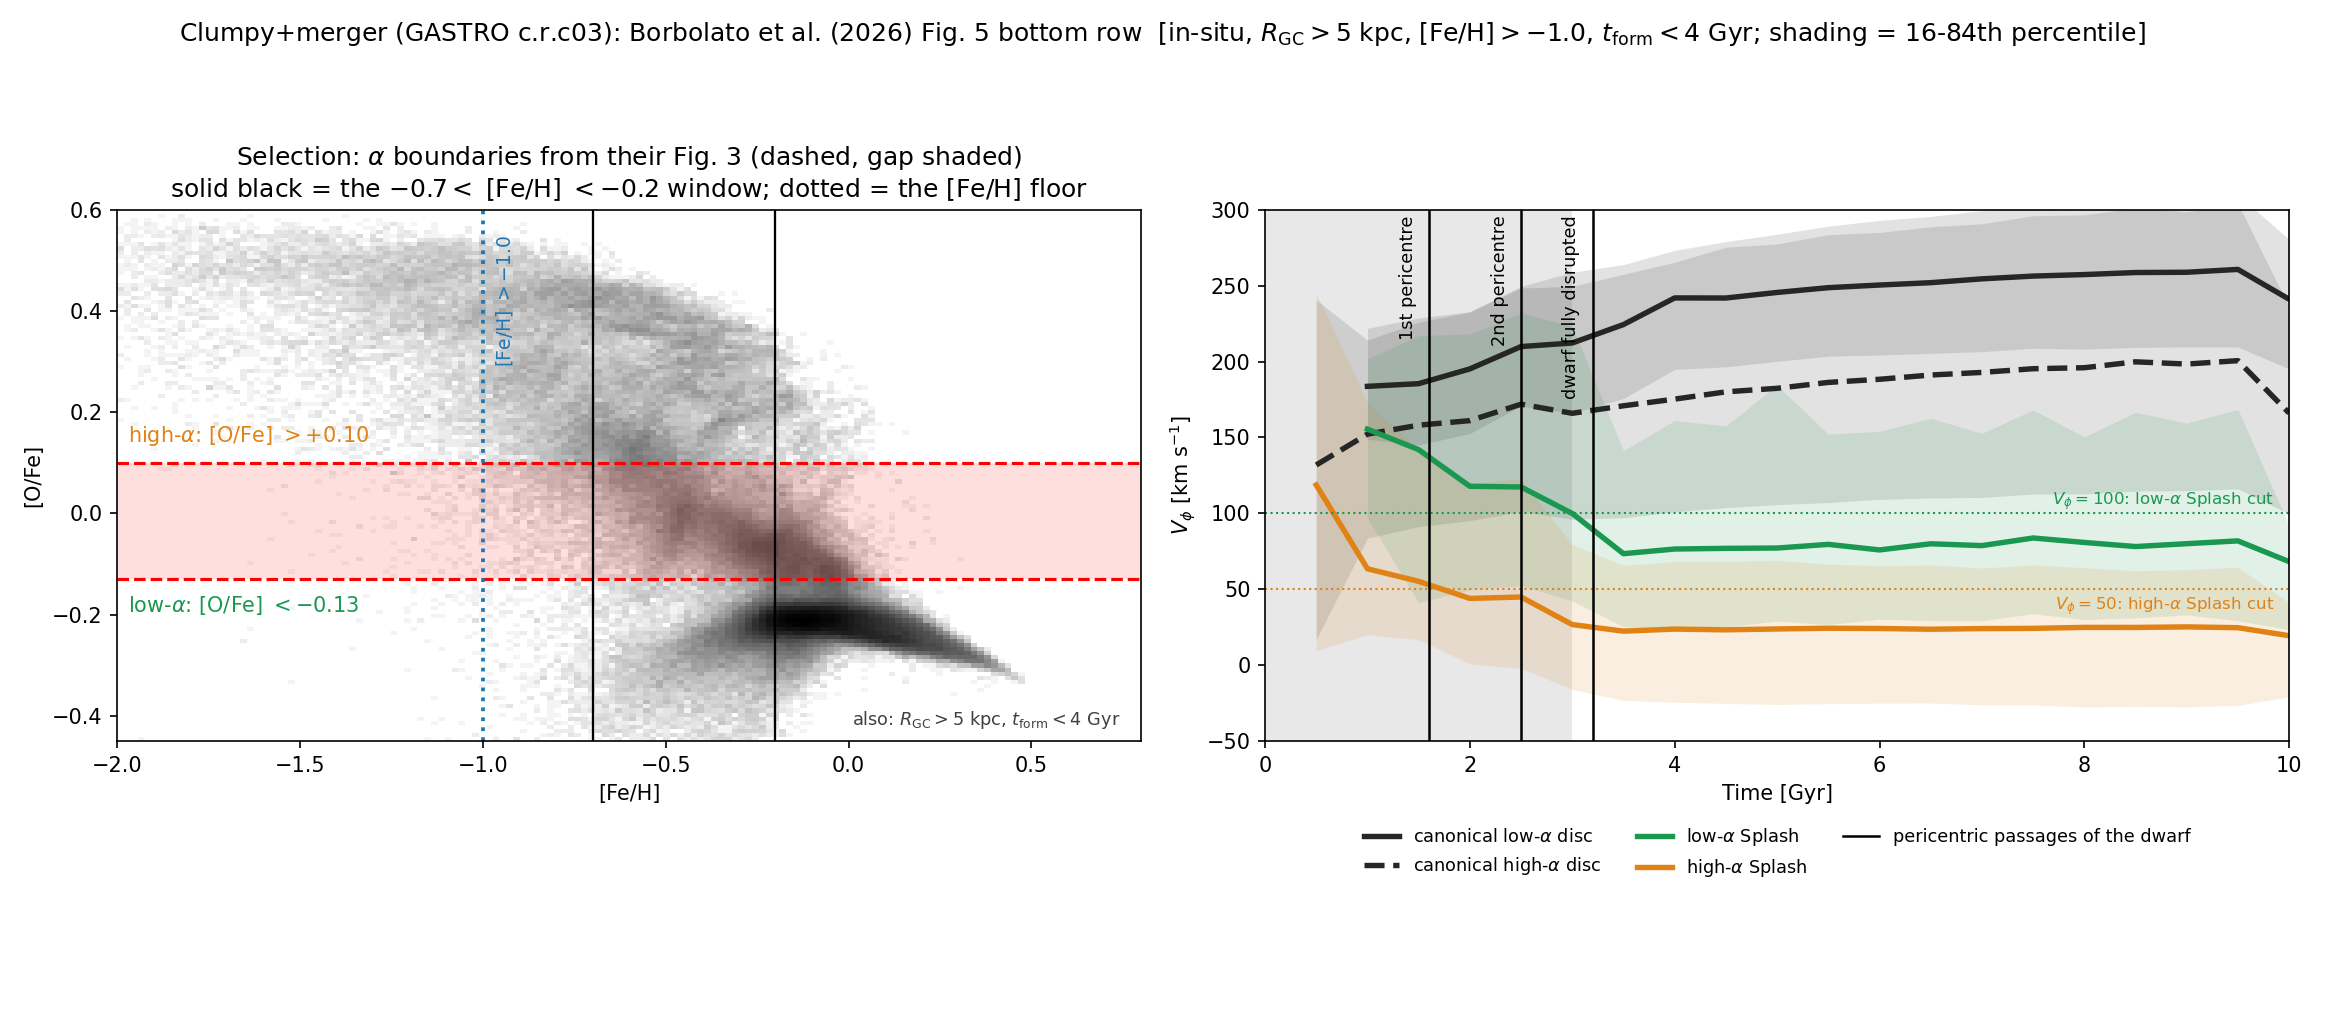
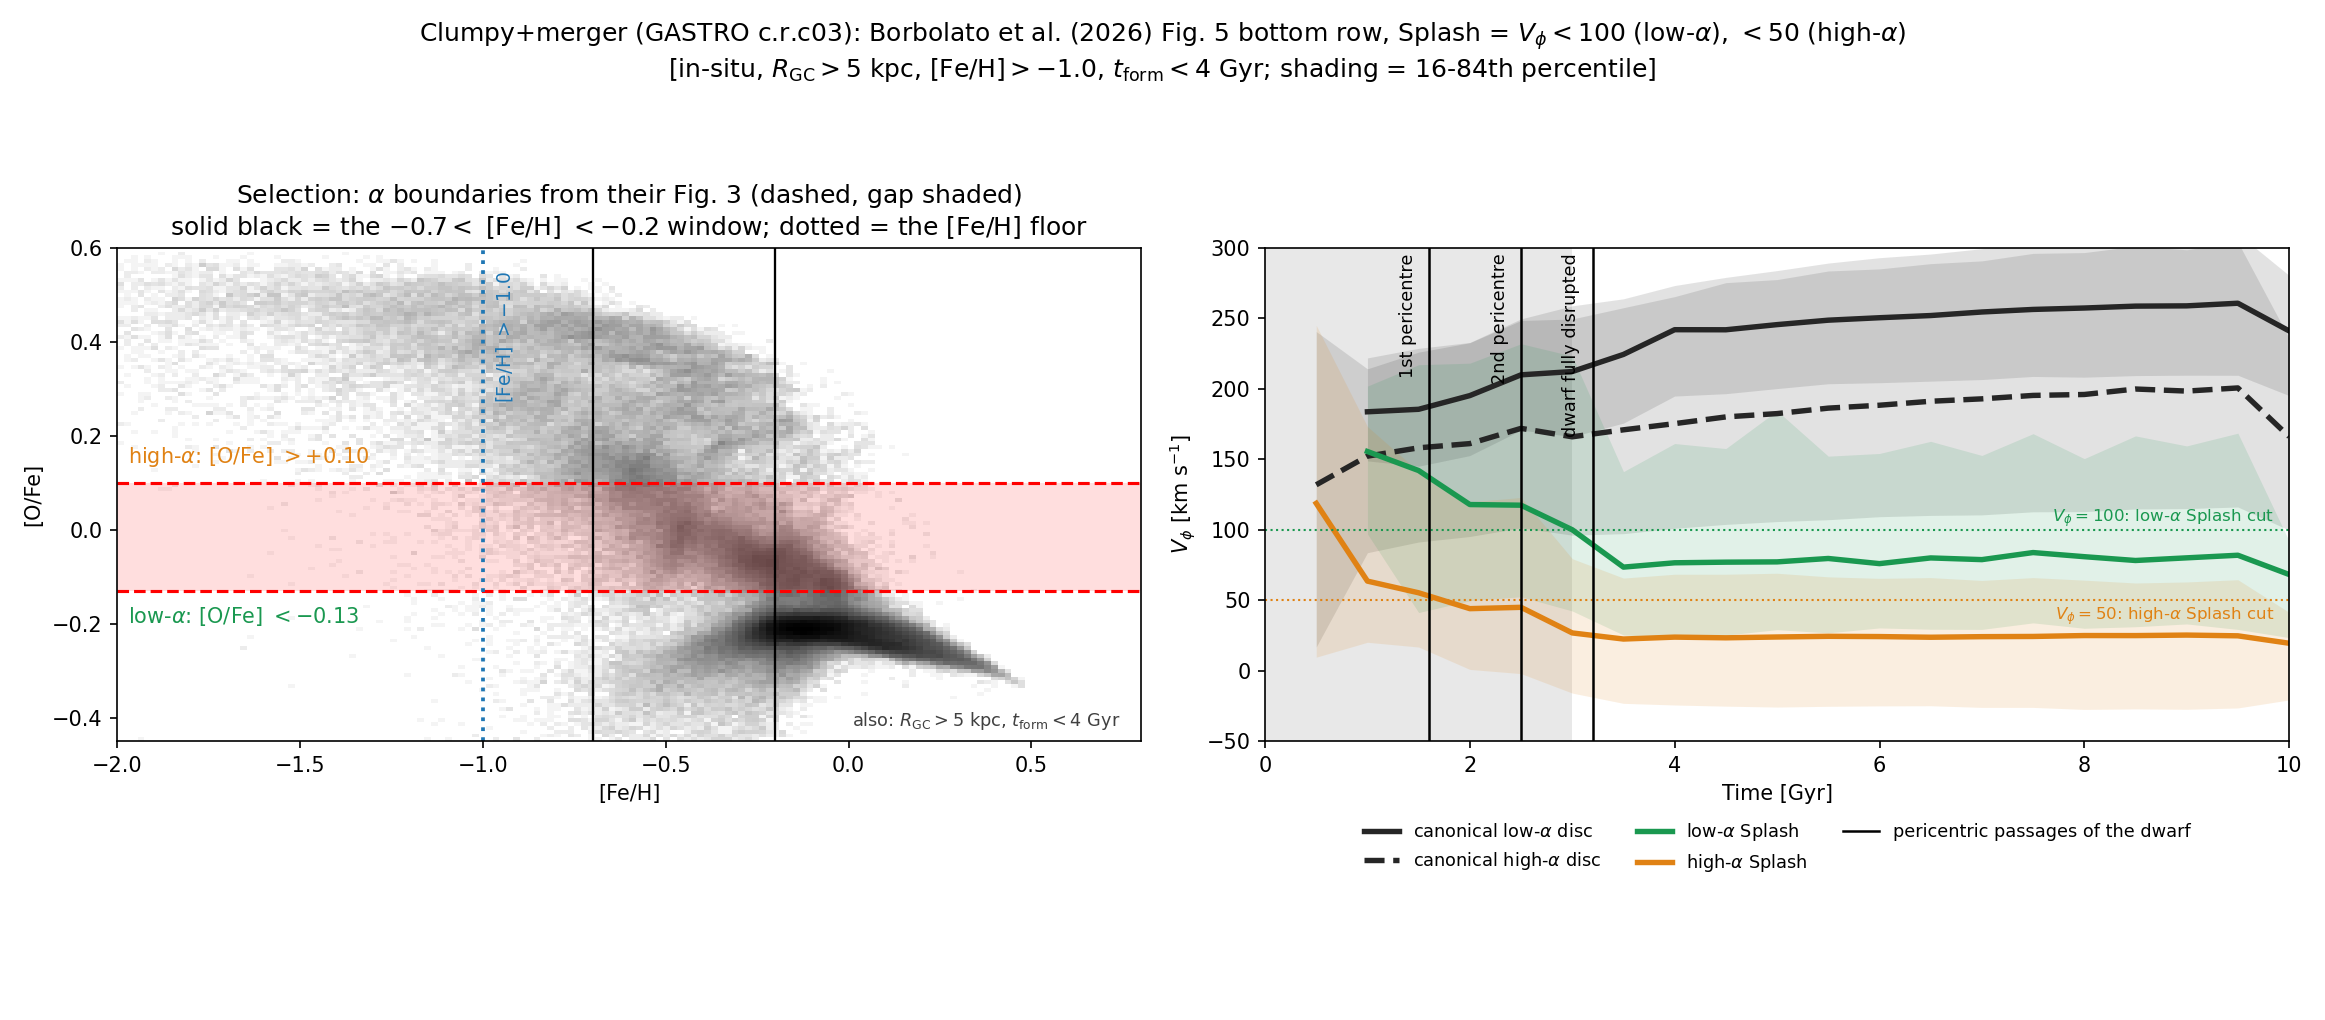
Add a symmetric |V_phi| < 80 Splash cut to the Fig. 5 reproduction
ana_gastro_fig5.py now takes a mode argument. The default reproduces Borbolato
et al.'s own one-sided pair (V_phi < 100 for low-alpha, < 50 for high-alpha);
`symmetric` applies the two-sided |V_phi| < 80 km/s window this project uses
observationally (SPLASH_VTAN_MAX in src/eos/config.py) to both alpha populations
alike. They write to separate files so both stay reproducible.

Sample sizes: low-alpha 487 -> 323 (loses 80 < V_phi < 100; nothing sits below
-80), high-alpha 4,020 -> 6,719 (gains 50 <= V_phi < 80, loses 93 retrograde).

The common cut changes how the figure reads. Under the paper's cuts the low- and
high-alpha Splash tracks run ~55 km/s apart after t = 4 Gyr; under one shared
threshold they converge to within 11 km/s, and the mean separation over the whole
track falls from 61 to 21 km/s. Most of the apparent kinematic difference between
the two Splash populations was the asymmetry of the selection rather than the
galaxy, so their common-origin claim holds on a like-for-like comparison.

diff --git a/gastro/ana_gastro_fig5.py b/gastro/ana_gastro_fig5.py
@@ -1,5 +1,10 @@
 """Bottom-row reproduction of Borbolato et al. (2026) Figure 5, Clumpy+merger model.
 
+Run with no argument for the paper's own Splash cuts, or `symmetric` for the
+two-sided |V_phi| < 80 km/s cut this project uses observationally
+(SPLASH_VTAN_MAX in ../src/eos/config.py), applied identically to both alpha
+populations.  The two write to different files, so both stay reproducible.
+
 Two panels:
   left   the [O/Fe]-[Fe/H] plane with the selection drawn on it, so the cuts are
          visible rather than asserted;
@@ -51,7 +56,21 @@ d = np.load(G.OUT_DIR + '/fig5_clumpy_merger.npz')
 OFE_LOW, OFE_HIGH = -0.13, 0.10      # Borbolato et al. Fig. 3, col. 4
 FEH_MIN = -1.0                       # their Sec. 3.1
 RMIN = 5.0                           # their Sec. 3.2
-VPHI_LOW, VPHI_HIGH = 100., 50.      # Splash cuts
+# Splash kinematics.  'paper' is Borbolato et al.'s own one-sided pair; the
+# stricter high-alpha value is theirs, because the simulated thick disc is more
+# heated than the Milky Way's.  'symmetric' instead applies one two-sided window
+# to both populations, matching this project's observational Splash mask
+# (|V_tan| < 80 km/s); it drops the retrograde tail that a one-sided cut keeps
+# and makes the low- and high-alpha selections directly comparable.
+MODE = 'symmetric' if 'symmetric' in sys.argv[1:] else 'paper'
+if MODE == 'paper':
+    VPHI_LOW, VPHI_HIGH = 100., 50.
+    SPLASH = lambda v, lim: v < lim
+    SUFFIX, CUTLAB = '', '$V_\\phi<100$ (low-$\\alpha$), $<50$ (high-$\\alpha$)'
+else:
+    VPHI_LOW = VPHI_HIGH = 80.
+    SPLASH = lambda v, lim: np.abs(v) < lim
+    SUFFIX, CUTLAB = '_vphi80', '$|V_\\phi|<80$ for both'
 FEH_WINDOW = (-0.7, -0.2)            # window the split is measured in
 TFORM_MAX = 4.0                      # their Fig. 3 low-alpha sample; affects the disc only
 NMIN = 15                            # a track point needs at least this many stars
@@ -72,8 +91,8 @@ insitu = ~G.satellite_born(Rform, zform)
 vol = insitu & (R > RMIN) & (feh > FEH_MIN) & (d['tform'] < TFORM_MAX)
 low = vol & (ofe < OFE_LOW)
 high = vol & (ofe > OFE_HIGH)
-splash_low = low & (vphi0 < VPHI_LOW)
-splash_high = high & (vphi0 < VPHI_HIGH)
+splash_low = low & SPLASH(vphi0, VPHI_LOW)
+splash_high = high & SPLASH(vphi0, VPHI_HIGH)
 
 print(f'R > {RMIN:.0f} kpc, [Fe/H] > {FEH_MIN}, t_form < {TFORM_MAX} Gyr, '
       f'satellite-born excluded ({(~insitu).sum():,})')
@@ -82,8 +101,11 @@ print(f'R > {RMIN:.0f} kpc, [Fe/H] > {FEH_MIN}, t_form < {TFORM_MAX} Gyr, '
 allage = insitu & (R > RMIN) & (feh > FEH_MIN)
 for lab, sel, sp, ref in [('low-alpha ', allage & (ofe < OFE_LOW), splash_low, 0.25),
                           ('high-alpha', allage & (ofe > OFE_HIGH), splash_high, 8.16)]:
+    # The APOGEE reference fractions were measured with the paper's own cuts, so
+    # they are only a like-for-like comparison in 'paper' mode.
+    tail = f'   [their APOGEE: {ref}%]' if MODE == 'paper' else ''
     print(f'  {lab} {sel.sum():>7,} -> Splash {sp.sum():>6,} '
-          f'({100*sp.sum()/sel.sum():.2f}%)   [their APOGEE: {ref}%]')
+          f'({100*sp.sum()/sel.sum():.2f}%){tail}')
 
 
 def track(mask):
@@ -137,12 +159,19 @@ for m, c, lab, ls in [(low & ~splash_low, C_DISC, 'canonical low-$\\alpha$ disc'
     axR.fill_between(times, lo, hi, color=c, alpha=.13, lw=0)
     axR.plot(times, med, color=c, lw=2.6, ls=ls, label=lab)
 
-axR.axhline(VPHI_LOW, color=C_LOW, lw=1.0, ls=':')
-axR.axhline(VPHI_HIGH, color=C_HIGH, lw=1.0, ls=':')
-axR.text(9.85, VPHI_LOW + 5, r'$V_\phi=100$: low-$\alpha$ Splash cut', color=C_LOW,
-         fontsize=8, ha='right')
-axR.text(9.85, VPHI_HIGH - 14, r'$V_\phi=50$: high-$\alpha$ Splash cut', color=C_HIGH,
-         fontsize=8, ha='right')
+if MODE == 'paper':
+    axR.axhline(VPHI_LOW, color=C_LOW, lw=1.0, ls=':')
+    axR.axhline(VPHI_HIGH, color=C_HIGH, lw=1.0, ls=':')
+    axR.text(9.85, VPHI_LOW + 5, r'$V_\phi=100$: low-$\alpha$ Splash cut', color=C_LOW,
+             fontsize=8, ha='right')
+    axR.text(9.85, VPHI_HIGH - 14, r'$V_\phi=50$: high-$\alpha$ Splash cut', color=C_HIGH,
+             fontsize=8, ha='right')
+else:
+    axR.axhspan(-VPHI_LOW, VPHI_LOW, color='0.35', alpha=.10, lw=0)
+    for y in (-VPHI_LOW, VPHI_LOW):
+        axR.axhline(y, color='0.35', lw=1.0, ls=':')
+    axR.text(9.85, VPHI_LOW + 5, r'$|V_\phi|<80$: Splash window, both populations',
+             color='0.25', fontsize=8, ha='right')
 for t, lab in PERI:
     axR.axvline(t, color='k', lw=1.2)
     axR.text(t - .12, 296, lab, rotation=90, ha='right', va='top', fontsize=8.5)
@@ -154,17 +183,18 @@ labels.append('pericentric passages of the dwarf')
 axR.legend(handles, labels, fontsize=8.5, ncol=3, loc='upper center',
            bbox_to_anchor=(.5, -.13), frameon=False)
 
-fig.suptitle('Clumpy+merger (GASTRO c.r.c03): Borbolato et al. (2026) Fig. 5 bottom row  '
-             f'[in-situ, $R_{{\\rm GC}}>{RMIN:.0f}$ kpc, [Fe/H]$>{FEH_MIN}$, $t_{{\\rm form}}<{TFORM_MAX:.0f}$ Gyr; '
-             f'shading = {BAND[0]}-{BAND[1]}th percentile]', fontsize=12)
+fig.suptitle('Clumpy+merger (GASTRO c.r.c03): Borbolato et al. (2026) Fig. 5 bottom row, '
+             f'Splash = {CUTLAB}\n'
+             f'[in-situ, $R_{{\\rm GC}}>{RMIN:.0f}$ kpc, [Fe/H]$>{FEH_MIN}$, '
+             f'$t_{{\\rm form}}<{TFORM_MAX:.0f}$ Gyr; shading = {BAND[0]}-{BAND[1]}th percentile]',
+             fontsize=12)
 fig.tight_layout(rect=[0, .07, 1, .93])
-out = G.FIG_DIR + '/gastro_fig5_clumpy_merger.png'
+out = G.FIG_DIR + f'/gastro_fig5_clumpy_merger{SUFFIX}.png'
 fig.savefig(out, dpi=150)
 
 gl, _, _ = track(splash_low); dl, _, _ = track(low & ~splash_low)
 gh, _, _ = track(splash_high); dh, _, _ = track(high & ~splash_high)
-print('\n  t    low-a Splash  low-a disc | high-a Splash  high-a disc'
-      '     (their Fig. 5, read off: green 185 at t=1, black 182)')
+print(f'\n  t    low-a Splash  low-a disc | high-a Splash  high-a disc   [{MODE} cuts]')
 for k in range(len(times)):
     print(f'  {times[k]:4.1f}  {gl[k]:12.1f} {dl[k]:11.1f} | {gh[k]:13.1f} {dh[k]:12.1f}')
 print('saved', out)

diff --git a/gastro/README.md b/gastro/README.md
@@ -86,6 +86,27 @@ disc's rms residual from 22.8 to 16.8 km/s.
 Measuring the [O/Fe] valley independently (deepest minimum over −0.7 < [Fe/H] <
 −0.2) gives −0.155, consistent with their −0.13; the scripts use their value.
 
+## Splash kinematic cut: two versions
+
+`ana_gastro_fig5.py` runs in two modes, writing separate files:
+
+| mode | Splash definition | figure |
+|---|---|---|
+| `paper` (default) | V_φ < 100 (low-α), V_φ < 50 (high-α) — one-sided, their own | `gastro_fig5_clumpy_merger.png` |
+| `symmetric` | −80 < V_φ < +80 for **both** — this project's observational mask (`SPLASH_VTAN_MAX` in `../src/eos/config.py`) | `gastro_fig5_clumpy_merger_vphi80.png` |
+
+The symmetric window drops the retrograde tail a one-sided cut keeps and applies
+one threshold to both populations, so low- and high-α are selected like for like.
+Sample sizes move accordingly: low-α 487 → 323 (losing 80 < V_φ < 100, nothing
+below −80), high-α 4,020 → 6,719 (gaining 50 ≤ V_φ < 80, losing 93 retrograde).
+
+It changes the reading of the figure. Under the paper's cuts the two Splash
+tracks sit ~55 km/s apart after t = 4 Gyr, which looks like two dynamically
+distinct populations; under one common cut they converge to within **11 km/s**
+(mean separation over the whole track 61 → 21 km/s). Most of the apparent
+difference was the selection, not the galaxy — which supports their "common
+dynamical origin" claim on a like-for-like comparison rather than in spite of one.
+
 ## How close the tracks get
 
 Against values read off their published panel, with the full selection above:
